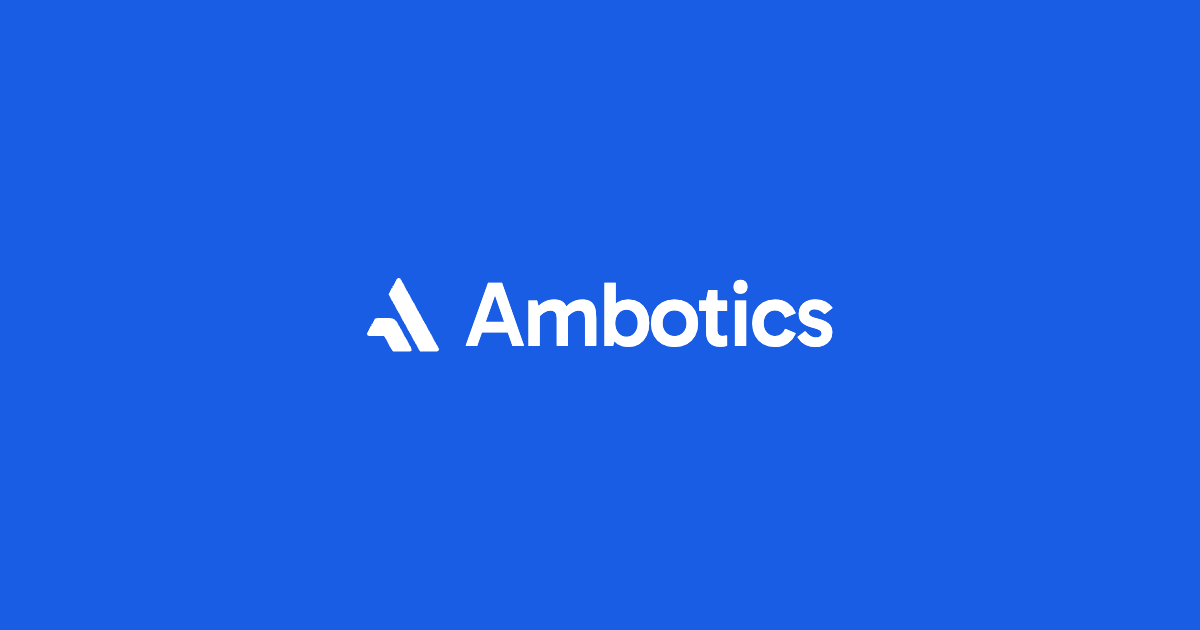
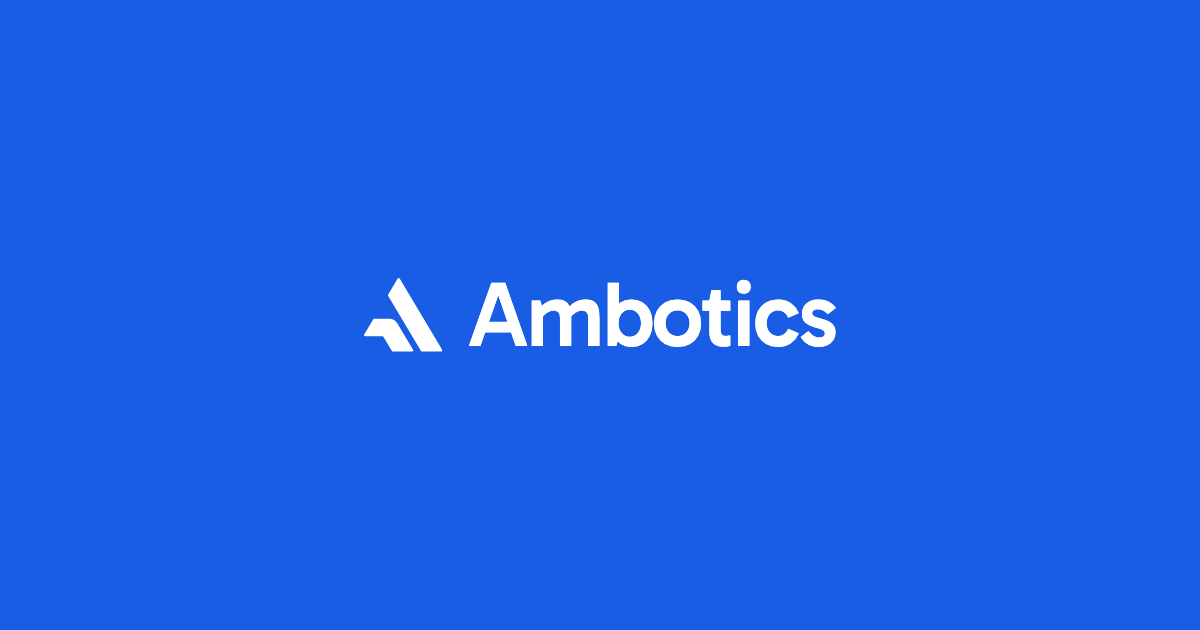
Replace the mark with the designer's latest A
The new two-piece A is wider and lower than the last one. It replaces
the paths in Mark.astro, the favicons and the social card. The colours
stay as they were: currentColor on the page, white on #185de4 off it.
The designer's #001b30 navy is dropped. The favicon centres the mark in
the square, where the designer's frame sat it 16px right of centre.

Changed region(s): [[0.3392, 0.4524, 0.7092, 0.573]]

diff --git a/CLAUDE.md b/CLAUDE.md
@@ -63,7 +63,7 @@ them:
 Full palette table and rationale: see **Design system** in `README.md`.
 
 **The mark takes `currentColor` and never the designer's navy.** The source file
-(replaced 2026-10-07) is a `#202059` mark on a `#185de4` square; that navy would be a
+(replaced 2026-10-09) is a `#185de4` mark on a `#001b30` square; that navy would be a
 second blue, so it is dropped. The favicon re-centres the mark in the square: the designer's
 frame sat it 16px right of centre.
 On the page the mark follows the wordmark (muted in the sidebar, white on the footer);
